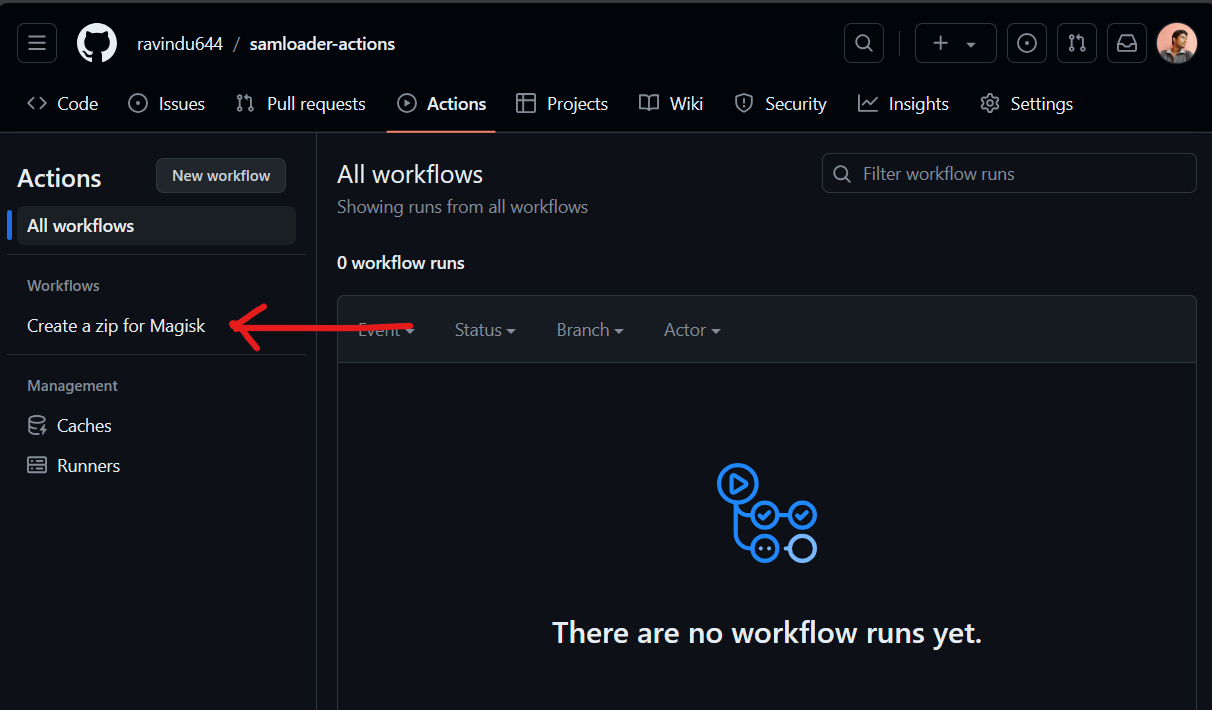
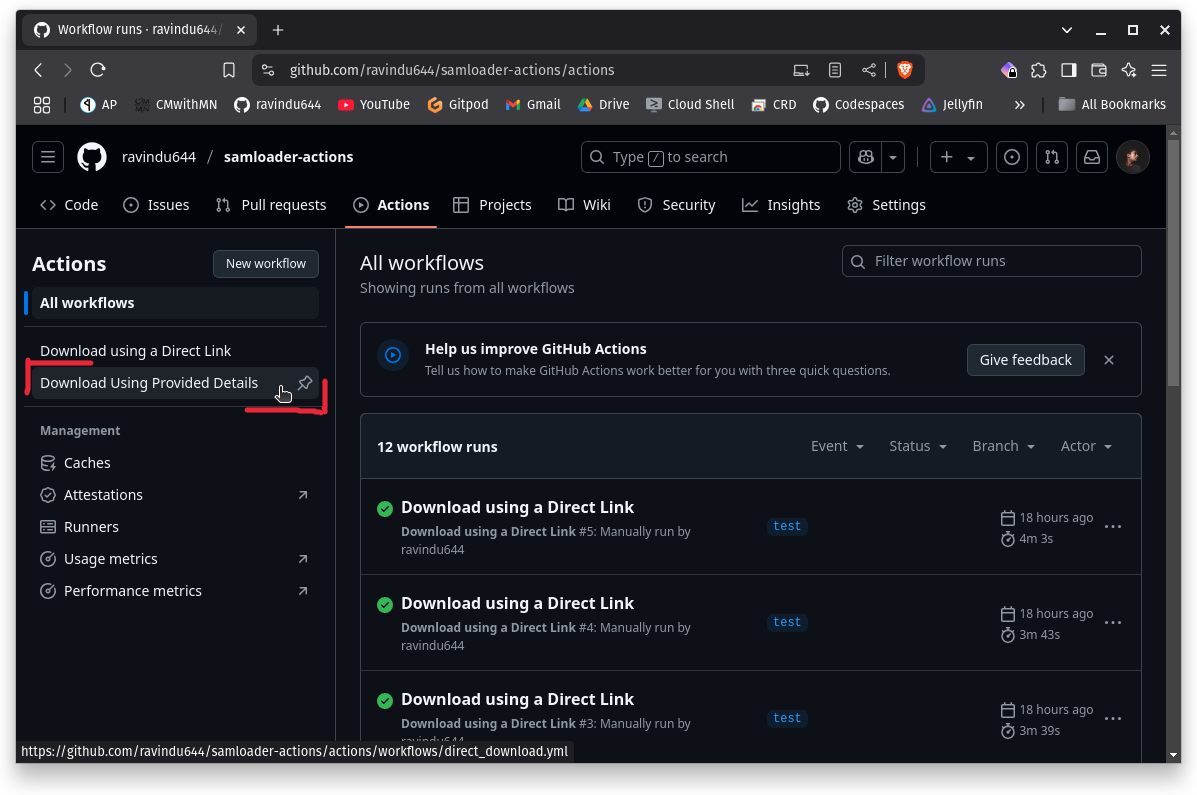
docs: refined

diff --git a/README.md b/README.md
@@ -3,13 +3,15 @@
 **samloader-actions** is a GitHub CI script designed to download the required files for Magisk to root your Samsung device without needing to download big firmware files..!
 <br>
 
-**❗WARNING:** If you input a **wrong IMEI**, the script will fail to get the firmware from the Samsung server.
-
-**❗WARNING:** You must update the phone's software to the latest version before unlocking the bootloader.
 > [!NOTE]
 > If you wish to upload the final results to your Telegram, create a public Telegram channel and a bot, add the bot to the channel as an admin, and set the GitHub environment secret `TELEGRAM_BOT_TOKEN` with your bot token and `TELEGRAM_CHAT_ID` with your channel's ID.
 
 ## How to root your phone using only my Script..? 🌜
+
+### 🟠 Method 1: Download Using Provided Details
+
+- This is the easiest and most stable method. However, **you must update your device to the latest software before unlocking the bootloader.**
+
 **Requirements:**
 - a Samsung device with your latest Samsung software update.
 - Unlocked bootloader.
@@ -34,30 +36,33 @@
 
 ## 2⃣. Usage: ☑ 
 #### 1. Give this repository a Star ⭐ and [fork](https://github.com/ravindu644/samloader-actions/fork) it.
-#### 2. Navigate to the "Actions" tab and select "Create a zip for Magisk". <br><br>
-   <img src="https://github.com/ravindu644/samloader-actions/blob/stable/assets/3.png?raw=true" width="95%">
+#### 2. Navigate to the "Actions" tab and select "Download Using Provided Details". <br><br>
+   <img src="./assets/3.png" width="95%">
 
-#### 3. Fill in all the required information there and press the "Run workflow" button ✅.
-<br><img src="https://github.com/ravindu644/samloader-actions/blob/stable/assets/4.png?raw=true" width="95%">
+#### 3. Fill in all the required information there and press the "Run workflow" button ✅
+
+<br><img src="./assets/4.png" width="95%">
+
+**❗WARNING:** If you input a **wrong IMEI**, the script will fail to get the firmware from the Samsung server.
 
 **🗒 Note:** You can find the value for CSC in "Settings > About phone > Software information > Service provider software version".
-<br><br><img src="https://github.com/ravindu644/samloader-actions/blob/stable/assets/5.png?raw=true" width="95%">
+<br><br><img src="./assets/5.png" width="95%">
 
 #### 4. The script will start the downloading process for you.
-<br><img src="https://github.com/ravindu644/samloader-actions/blob/stable/assets/6.png?raw=true" width="95%">
+<br><img src="./assets/6.png" width="95%">
 
 #### 5. After 10-15 minutes, you can find the output files in your Telegram channel or Workflow's artifacts. (I'll choose the artifact.)
-<img src="https://github.com/ravindu644/samloader-actions/blob/stable/assets/7.png?raw=true" width="95%">
+<img src="./assets/7.png" width="95%">
 
-#### 6. Download the artifact and extract the "tar.xz" file inside it.
-<img src="https://github.com/ravindu644/samloader-actions/blob/stable/assets/8.png?raw=true" width="95%">
+#### 6. Download the artifact and extract the "tar.zip" file inside it.
+<img src="./assets/8.png" width="95%">
 
-#### 7. Extract the "Magisk-Patch-Me-YOUR-MODEL.tar" inside that "tar.xz" file.
-<img src="https://github.com/ravindu644/samloader-actions/blob/stable/assets/9.png?raw=true" width="95%">
+#### 7. Extract the "YOUR-MODEL-Magisk-files.tar" inside that "tar.zip" file.
+<img src="./assets/9.png" width="95%">
 
-#### 8. Now, copy the extracted "Magisk-Patch-Me-YOUR-MODEL.tar" to your phone's internal storage.
+#### 8. Now, copy the extracted "YOUR-MODEL-Magisk-files.tar" to your phone's internal storage.
 
-<img src="https://github.com/ravindu644/samloader-actions/blob/stable/assets/10.png?raw=true" width="95%">
+<img src="./assets/10.png" width="95%">
 
 #### 9. [Install the latest Magisk Manager APK from here.](https://github.com/topjohnwu/Magisk/releases/latest)
 
@@ -66,27 +71,27 @@
 https://github.com/ravindu644/samloader-actions/assets/126038496/143fdec9-af74-49c6-930f-2c11c22dce18
 
 #### 11. The patched tar file will be located in your "Download" folder. Copy it to your PC.
-<img src="https://github.com/ravindu644/samloader-actions/blob/stable/assets/11.png?raw=true" width="95%">
+<img src="./assets/11.png" width="95%">
 
 #### 12. Reboot your Device to Download mode.
 - [Use this Guide](https://github.com/ravindu644/Scamsung/wiki/How-to-root-your-Samsung-device-with-help-of-my-Script%3F-%5B-NO-TWRP-!-%5D#-download-mode-key-combinations).
-<img src="https://github.com/ravindu644/samloader-actions/blob/stable/assets/1.jpg?raw=true" width="95%">
+<img src="./assets/1.jpg" width="95%">
 
 #### 13. Open "ODIN" and click "AP" button and choose the "magisk_patched-xxxx.tar".
-<br><img src="https://github.com/ravindu644/samloader-actions/blob/stable/assets/12.png?raw=true" width="95%">
+<br><img src="./assets/12.png" width="95%">
 
 #### 14. Press "Start" in ODIN. It will begin to flash the patched file required for Magisk root to your device.
-<br><img src="https://github.com/ravindu644/samloader-actions/blob/stable/assets/13.png?raw=true" width="95%">
+<br><img src="./assets/13.png" width="95%">
 
 #### 15. Now, your device should boot up. If it fails, just do a "wipe data/factory reset" using Android recovery. (In my case, I didn't want to do a reset)
-<br><img src="https://github.com/ravindu644/samloader-actions/blob/stable/assets/2.jpg?raw=true" width="95%">
+<br><img src="./assets/2.jpg" width="95%">
 
 #### 16. Open Magisk Manager and You will see a notice like this:
 - Simply press OK and your device will reboot in 5 seconds.
-<br><img src="https://github.com/ravindu644/samloader-actions/blob/stable/assets/3.jpg?raw=true" width="95%">
+<br><img src="./assets/3.jpg" width="95%">
 
 #### 17. 🔥Once booted, install a root checker app and see the magic..! 😉
-<br><img src="https://github.com/ravindu644/samloader-actions/blob/stable/assets/4.jpg?raw=true" width="95%">
+<br><img src="./assets/4.jpg" width="95%">
 
 ## Credits:
 - [Scamsung](https://github.com/ravindu644/Scamsung) + [Samloader](https://github.com/martinetd/samloader) - The core.
